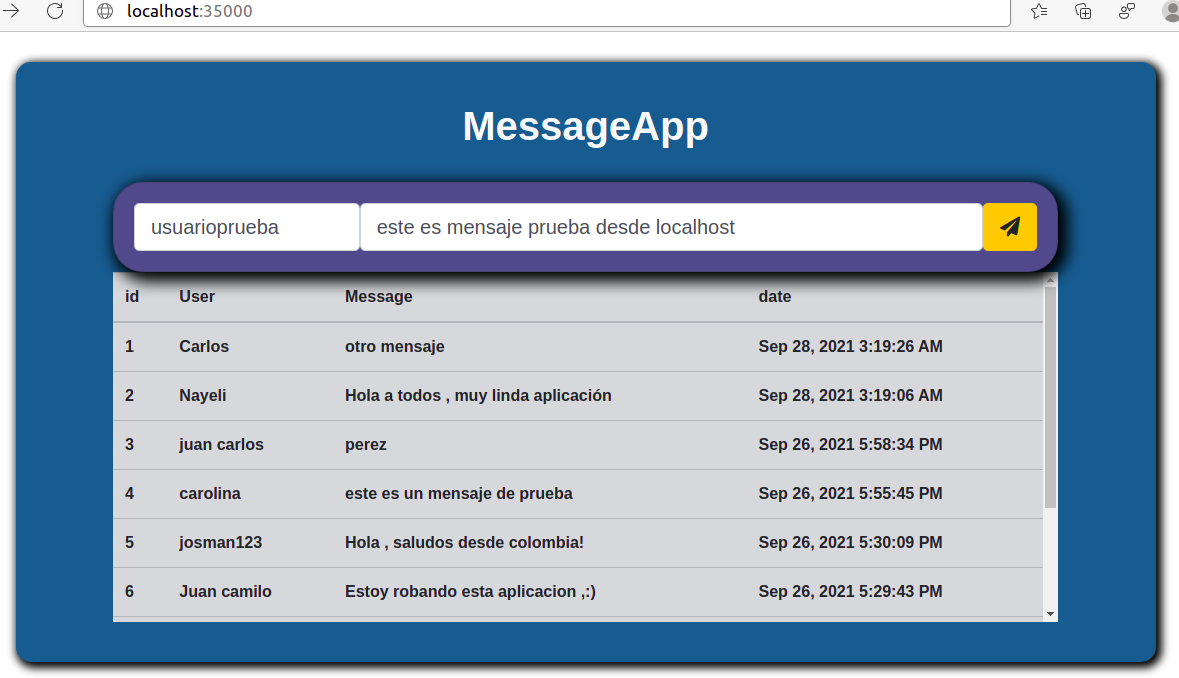
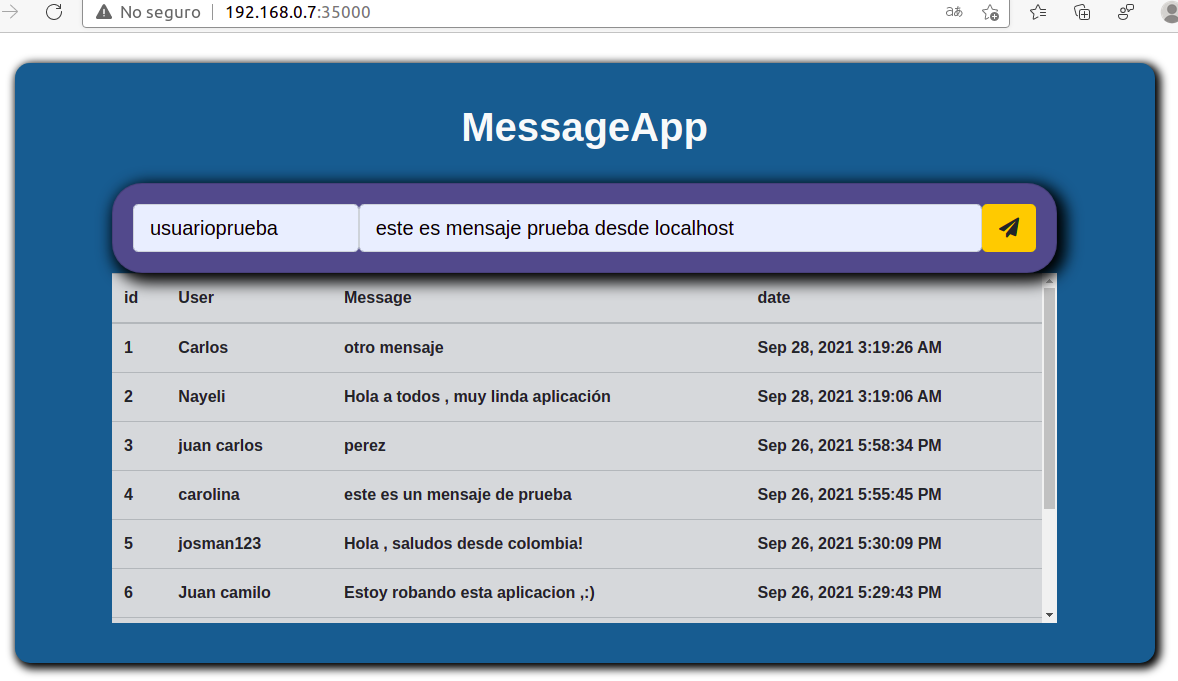
Actualizacion README.md

diff --git a/README.md b/README.md
@@ -56,9 +56,10 @@ docker images
 ```
 docker ps
 ```
-Finalmente accedemos a la siguiente dirección y comprobamos que se muestre correctamente el aplicativo web en el navegador:
+Finalmente accedemos a la siguiente dirección con nuestra **IP LOCAL** seguido del puerto **35000**
+y comprobamos que se muestre correctamente el aplicativo web en el navegador:
 ```
-http://localhost:35000
+http://192.168.0.7:35000
 ```
 
 ![localhost](/img/localhost.png)
